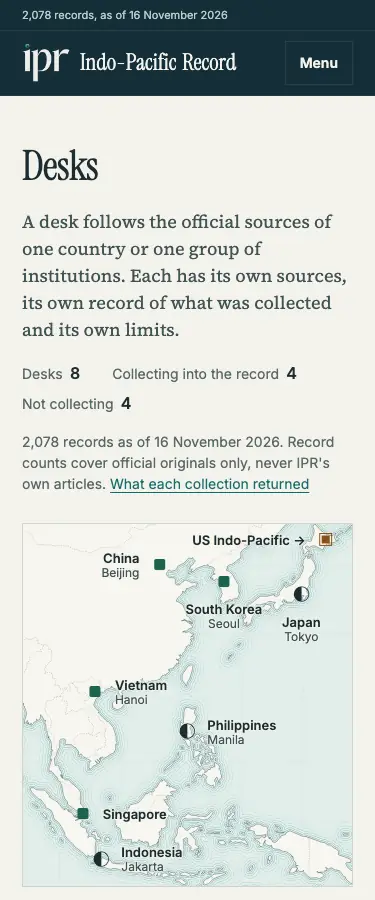
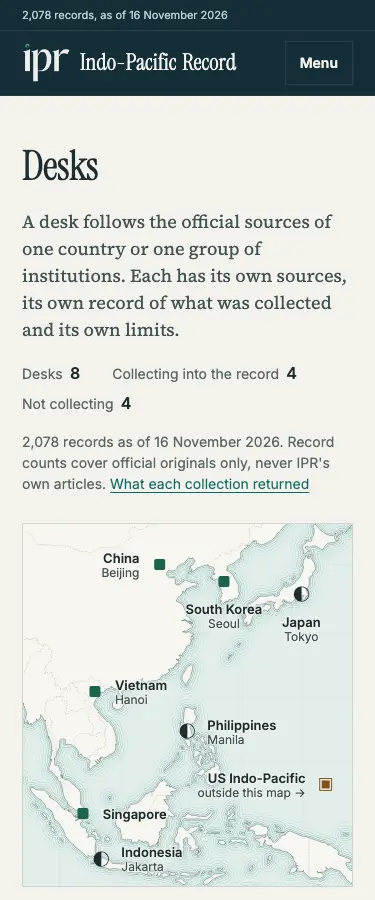
Act on the independent review: US pointer in open sea at every width, locator link on phones, consistent forced colours
The narrow-map rule had moved the US edge pointer onto Hokkaido and hidden its
text. It now stays at its built latitude (6N, open sea), keeps 'outside this
map' visible, and tests guard both. The locator's atlas link shows at every
width; forced colours keep both drawings. Browser test for atlas label
collisions at eight widths.

diff --git a/output/desks.html b/output/desks.html
@@ -68,7 +68,7 @@
 <li><a class="seat seat--right seat--n-right" href="#desk-philippines" style="left:49.96%;top:57.54%"><span class="seat-mark seat-mark--shadow" aria-hidden="true"></span><span class="seat-text"><b>Philippines</b> Manila<span class="visually-hidden">: Philippines Desk. Official links and machine explanations — not in corpus</span></span></a></li>
 <li><a class="seat seat--left seat--n-right" href="#desk-vietnam" style="left:21.85%;top:46.43%"><span class="seat-mark seat-mark--live" aria-hidden="true"></span><span class="seat-text"><b>Vietnam</b> Hanoi<span class="visually-hidden">: Vietnam Desk. Live — collecting</span></span></a></li>
 <li><a class="seat seat--right seat--n-right" href="#desk-indonesia" style="left:23.8%;top:92.72%"><span class="seat-mark seat-mark--shadow" aria-hidden="true"></span><span class="seat-text"><b>Indonesia</b> Jakarta<span class="visually-hidden">: Indonesia Desk. Shadow evaluation — not in corpus</span></span></a></li>
-<li><a class="seat seat--edge" href="#desk-us-indopacific" style="--y:78.07%"><span class="seat-text"><b>US Indo-Pacific</b> <span class="seat-far">United States, outside this map</span><span class="visually-hidden">: US Indo-Pacific Reference Desk. Access blocked — not collecting</span></span><span class="seat-mark seat-mark--access_blocked" aria-hidden="true"></span></a></li>
+<li><a class="seat seat--edge" href="#desk-us-indopacific" style="--y:72.17%"><span class="seat-text"><b>US Indo-Pacific</b> <span class="seat-place">United States, </span>outside this map<span class="visually-hidden">: US Indo-Pacific Reference Desk. Access blocked — not collecting</span></span><span class="seat-mark seat-mark--access_blocked" aria-hidden="true"></span></a></li>
 </ul>
 <div class="atlas-grat" aria-hidden="true"><span class="g-lon" style="left:11.11%">100°E</span><span class="g-lon" style="left:29.63%">110°E</span><span class="g-lon" style="left:48.15%">120°E</span><span class="g-lon" style="left:66.67%">130°E</span><span class="g-lon" style="left:85.19%">140°E</span><span class="g-lat" style="top:11.19%">40°N</span><span class="g-lat" style="top:30.27%">30°N</span><span class="g-lat" style="top:48.19%">20°N</span><span class="g-lat" style="top:65.4%">10°N</span><span class="g-lat" style="top:82.27%">0°</span><span class="g-lat" style="top:99.15%">10°S</span></div>
 </div>

diff --git a/site/preview/templates/_geo.html b/site/preview/templates/_geo.html
@@ -11,7 +11,7 @@
 <div class="atlas-map" style="aspect-ratio:{{ w.ratio }};--crop-size:{{ w.size }};--crop-at:{{ w.position }}">
 <ul class="atlas-seats" aria-label="Where each desk's institutions are based">
 {% for s in atlas.seats %}<li><a class="seat seat--{{ s.label }} seat--n-{{ s.label_narrow }}" href="#desk-{{ s.desk.slug }}" style="left:{{ s.x }};top:{{ s.y }}"><span class="seat-mark seat-mark--{{ s.desk.status }}" aria-hidden="true"></span><span class="seat-text"><b>{{ s.short }}</b>{% if s.seat != s.short %} {{ s.seat }}{% endif %}<span class="visually-hidden">: {{ s.desk.name }}. {{ s.desk.status_label }}</span></span></a></li>
-{% endfor %}{% for o in atlas.outside %}<li><a class="seat seat--edge" href="#desk-{{ o.desk.slug }}" style="--y:{{ o.y }}"><span class="seat-text"><b>{{ o.short }}</b> <span class="seat-far">{{ o.place }}, outside this map</span><span class="visually-hidden">: {{ o.desk.name }}. {{ o.desk.status_label }}</span></span><span class="seat-mark seat-mark--{{ o.desk.status }}" aria-hidden="true"></span></a></li>
+{% endfor %}{% for o in atlas.outside %}<li><a class="seat seat--edge" href="#desk-{{ o.desk.slug }}" style="--y:{{ o.y }}"><span class="seat-text"><b>{{ o.short }}</b> <span class="seat-place">{{ o.place }}, </span>outside this map<span class="visually-hidden">: {{ o.desk.name }}. {{ o.desk.status_label }}</span></span><span class="seat-mark seat-mark--{{ o.desk.status }}" aria-hidden="true"></span></a></li>
 {% endfor %}</ul>
 <div class="atlas-grat" aria-hidden="true">{% for g in atlas.graticule.lon %}<span class="g-lon" style="left:{{ g.at }}">{{ g.text }}</span>{% endfor %}{% for g in atlas.graticule.lat %}<span class="g-lat" style="top:{{ g.at }}">{{ g.text }}</span>{% endfor %}</div>
 </div>

diff --git a/output/desk-references.css b/output/desk-references.css
@@ -14,14 +14,13 @@
 .locator figcaption{margin:.45rem 0 0;font:400 .8125rem/1.4 var(--sans);color:var(--muted)}
 .locator figcaption a{font-weight:600}
 @media(max-width:699px){
-  .page-head--located{grid-template-columns:minmax(0,1fr) 5.5rem;grid-template-rows:auto;column-gap:1rem}
+  .page-head--located{grid-template-columns:minmax(0,1fr) 6.5rem;grid-template-rows:auto;column-gap:1rem}
   .page-head--located>.locator{grid-row:1;margin:0}
   .page-head--located>.lede,.page-head--located>.desk-count{grid-column:1/-1}
   .locator .seat-mark{font-size:.8125rem}
-  .locator-more{display:none}
   .locator figcaption{font-size:.75rem;margin-top:.3rem}
 }
-@media(forced-colors:active){.locator-map{forced-color-adjust:none}.locator .seat-mark{color:CanvasText;background:Canvas}}
+@media(forced-colors:active){.locator-map{forced-color-adjust:none}}
 .desk-count{font:400 var(--step-meta)/1.5 var(--sans);color:var(--muted);margin:.9rem 0 0}
 [data-surface=desk] .status-panel{display:grid;grid-template-columns:auto minmax(0,1fr);gap:0 .7rem;align-items:start;margin:0 0 2.4rem;padding:1.4rem 0 1.6rem;border:0;border-bottom:1px solid var(--rule);background:none}
 [data-surface=desk] .status-panel .status-glyph{font-size:1.05rem;line-height:1.75rem;padding:0}

diff --git a/site/preview/desk-references.css b/site/preview/desk-references.css
@@ -14,14 +14,13 @@
 .locator figcaption{margin:.45rem 0 0;font:400 .8125rem/1.4 var(--sans);color:var(--muted)}
 .locator figcaption a{font-weight:600}
 @media(max-width:699px){
-  .page-head--located{grid-template-columns:minmax(0,1fr) 5.5rem;grid-template-rows:auto;column-gap:1rem}
+  .page-head--located{grid-template-columns:minmax(0,1fr) 6.5rem;grid-template-rows:auto;column-gap:1rem}
   .page-head--located>.locator{grid-row:1;margin:0}
   .page-head--located>.lede,.page-head--located>.desk-count{grid-column:1/-1}
   .locator .seat-mark{font-size:.8125rem}
-  .locator-more{display:none}
   .locator figcaption{font-size:.75rem;margin-top:.3rem}
 }
-@media(forced-colors:active){.locator-map{forced-color-adjust:none}.locator .seat-mark{color:CanvasText;background:Canvas}}
+@media(forced-colors:active){.locator-map{forced-color-adjust:none}}
 .desk-count{font:400 var(--step-meta)/1.5 var(--sans);color:var(--muted);margin:.9rem 0 0}
 [data-surface=desk] .status-panel{display:grid;grid-template-columns:auto minmax(0,1fr);gap:0 .7rem;align-items:start;margin:0 0 2.4rem;padding:1.4rem 0 1.6rem;border:0;border-bottom:1px solid var(--rule);background:none}
 [data-surface=desk] .status-panel .status-glyph{font-size:1.05rem;line-height:1.75rem;padding:0}

diff --git a/output/desk-map.css b/output/desk-map.css
@@ -76,12 +76,10 @@
   .seat--n-left{flex-direction:row-reverse;text-align:right;transform:translate(calc(-100% + 20px),-50%)}
   .seat--n-right{flex-direction:row;text-align:left;transform:translate(-20px,-50%)}
   .seat--n-below{flex-direction:column;text-align:center;transform:translate(-50%,-20px)}
-  .seat--edge{top:4.5%}
-  .seat--edge .seat-text b::after{content:" →"}.seat--edge .seat-text::after{content:none}
-  .seat-far{position:absolute;width:1px;height:1px;overflow:hidden;clip-path:inset(50%);white-space:nowrap}
+  .seat-place{position:absolute;width:1px;height:1px;overflow:hidden;clip-path:inset(50%);white-space:nowrap}
   .atlas-grat{display:none}
 }
-@media(forced-colors:active){.atlas-map{background:Canvas;forced-color-adjust:none}.seat,.seat-text,.seat-text b{color:CanvasText;text-shadow:none}.seat-mark{color:CanvasText}}
+@media(forced-colors:active){.atlas-map{forced-color-adjust:none}}
 @media print{.atlas-map{border-color:#000}}
 .desks-section{margin:3rem 0 0}
 .desks-section>h2{margin:0 0 .8rem;padding:1rem 0 0;border-top:2px solid var(--rule-hard);font:400 clamp(1.625rem,1.35rem + 1vw,2.125rem)/1.1 var(--display)}

diff --git a/site/preview/desk-map.css b/site/preview/desk-map.css
@@ -76,12 +76,10 @@
   .seat--n-left{flex-direction:row-reverse;text-align:right;transform:translate(calc(-100% + 20px),-50%)}
   .seat--n-right{flex-direction:row;text-align:left;transform:translate(-20px,-50%)}
   .seat--n-below{flex-direction:column;text-align:center;transform:translate(-50%,-20px)}
-  .seat--edge{top:4.5%}
-  .seat--edge .seat-text b::after{content:" →"}.seat--edge .seat-text::after{content:none}
-  .seat-far{position:absolute;width:1px;height:1px;overflow:hidden;clip-path:inset(50%);white-space:nowrap}
+  .seat-place{position:absolute;width:1px;height:1px;overflow:hidden;clip-path:inset(50%);white-space:nowrap}
   .atlas-grat{display:none}
 }
-@media(forced-colors:active){.atlas-map{background:Canvas;forced-color-adjust:none}.seat,.seat-text,.seat-text b{color:CanvasText;text-shadow:none}.seat-mark{color:CanvasText}}
+@media(forced-colors:active){.atlas-map{forced-color-adjust:none}}
 @media print{.atlas-map{border-color:#000}}
 .desks-section{margin:3rem 0 0}
 .desks-section>h2{margin:0 0 .8rem;padding:1rem 0 0;border-top:2px solid var(--rule-hard);font:400 clamp(1.625rem,1.35rem + 1vw,2.125rem)/1.1 var(--display)}

diff --git a/tests/test_desks_phase4_browser.py b/tests/test_desks_phase4_browser.py
@@ -107,6 +107,33 @@ class DesksDirectoryBrowser(unittest.TestCase):
                 if entry.status == "shadow":
                     self.assertNotRegex(row["records"], r"\d")
 
+    def test_atlas_labels_stay_clear_of_each_other_and_inside_the_map(self):
+        # The regional atlas (2026-11-17): no name overlaps another name or
+        # another desk's mark, and none leaves the map, at any width.
+        probe = """() => {const m=document.querySelector('.atlas-map').getBoundingClientRect();
+          const r=[...document.querySelectorAll('.atlas .seat')].map(a=>{
+            const t=a.querySelector('.seat-text').getBoundingClientRect(),k=a.querySelector('.seat-mark').getBoundingClientRect();
+            return {n:a.querySelector('b').textContent,t:[t.left,t.top,t.right,t.bottom],
+                    k:[k.left+12,k.top+12,k.right-12,k.bottom-12],h:a.getBoundingClientRect().height}});
+          const hit=(a,b)=>a[0]<b[2]&&b[0]<a[2]&&a[1]<b[3]&&b[1]<a[3],out=[];
+          for(let i=0;i<r.length;i++)for(let j=0;j<r.length;j++){if(i===j)continue;
+            if(j>i&&hit(r[i].t,r[j].t))out.push(r[i].n+' / '+r[j].n);
+            if(hit(r[i].t,r[j].k))out.push(r[i].n+' over the mark of '+r[j].n)}
+          for(const x of r){if(x.t[0]<m.left-1||x.t[2]>m.right+1||x.t[1]<m.top-1||x.t[3]>m.bottom+1)out.push(x.n+' outside the map');
+            if(x.h<40)out.push(x.n+' target under 40px')}
+          return {count:r.length,problems:out}}"""
+        for width in WIDTHS + (414, 1024):
+            ctx = self.browser.new_context(viewport={"width": width, "height": 900})
+            page = ctx.new_page()
+            try:
+                page.goto((self.out / "desks.html").as_uri(), wait_until="load")
+                result = page.evaluate(probe)
+            finally:
+                ctx.close()
+            with self.subTest(width=width):
+                self.assertEqual(result["count"], len(self.registry))
+                self.assertEqual(result["problems"], [])
+
     def test_no_javascript_still_exposes_every_public_desk(self):
         rows, doc_width = self._rows(viewport={"width": 375, "height": 812},
                                      java_script_enabled=False)

diff --git a/tests/test_desk_map.py b/tests/test_desk_map.py
@@ -86,6 +86,20 @@ class RegionalAtlasTest(unittest.TestCase):
         # The edge pointer is not at the former Hawaii seat's latitude.
         self.assertNotAlmostEqual(atlas.OUTSIDE_EDGE_LAT, 21.4, delta=5)
 
+    def test_the_edge_pointer_sits_in_open_sea_at_every_width(self):
+        # Its mark stands at the view's east edge at OUTSIDE_EDGE_LAT; that
+        # point (and a margin west of it) must be sea, never a stand-in seat
+        # on someone's land. No stylesheet may move it off the built latitude.
+        east = atlas.VIEW["lon"][1]
+        for lon in (east, east - 1.5, east - 3.0):
+            self.assertFalse(_contains(self.source["land"],
+                                       *atlas.project(lon, atlas.OUTSIDE_EDGE_LAT)), lon)
+        css = (ROOT / "site" / "preview" / "desk-map.css").read_text(encoding="utf-8")
+        import re
+        for rule in re.findall(r"\.seat--edge\{([^}]*)\}", css):
+            tops = re.findall(r"(?:^|;)\s*top\s*:\s*([^;]+)", rule)
+            self.assertTrue(all(t.strip() == "var(--y)" for t in tops), rule)
+
     def test_every_seated_desk_has_a_locator_and_the_outside_desk_has_none(self):
         for slug, p in self.places.items():
             loc = atlas.locator_view(slug)
@@ -150,7 +164,7 @@ class AtlasOnThePages(unittest.TestCase):
             self.assertIn("%s. %s" % (d.name, d.status_label), head)
         self.assertIn("It is not an area of coverage", head)
         self.assertIn("no boundary claim", head)
-        self.assertIn("United States, outside this map", head)
+        self.assertIn("United States, </span>outside this map", head)
         self.assertNotIn("Hawaii", head)
         self.assertTrue((ROOT / "output" / "assets" / "geo" / "atlas.svg").is_file())
 

diff --git a/scripts/build_atlas.py b/scripts/build_atlas.py
@@ -60,7 +60,7 @@ VIEW = {"lon": (94.0, 148.0), "lat": (45.5, -10.5)}
 LOCATOR_SPAN = (26.0, 26.0)   # degrees of longitude, degrees of Miller height
 # Where an outside desk's edge pointer meets the east edge: open ocean, and
 # deliberately not the latitude of any former seat.
-OUTSIDE_EDGE_LAT = 2.5
+OUTSIDE_EDGE_LAT = 6.0
 
 # Waterline offsets from the coast, in units, nearest first, with the share of
 # the line colour mixed into the sea for each.

diff --git a/docs/evidence/regional-atlas-2026-11-17/README.md b/docs/evidence/regional-atlas-2026-11-17/README.md
@@ -22,7 +22,7 @@ Desktop is 1280px wide; mobile is 375px. Both are cut at 1,700px.
   - Each point marks where a desk's publishing institutions are based.
   - No country is filled.
   - Each mark is the desk's registry state glyph, with no colour-only meaning.
-  - The US desk is an edge pointer ("United States, outside this map"), not a Hawaii seat.
+  - The US desk is an edge pointer in open sea at 6°N ("United States, outside this map"; on a narrow map, "outside this map"), not a Hawaii seat.
 - **Directory unchanged.** The rows below the atlas, their counts, states and parallel-text titles are unchanged. Each row gains "Seat: <place>" with a link back to the atlas.
 - **Waterline rule.** Every page head's 2px rule now has two faint hairlines beneath it.
 

diff --git a/DECISION_LOG.md b/DECISION_LOG.md
@@ -27,7 +27,8 @@ visual phase through merge and deployment under repository governance.
 - The US Indo-Pacific Reference Desk is no longer drawn at Hawaii. Its
   registered sources are the USCC and the Treasury; nothing from U.S. Pacific
   Command, the Hawaii institution, is configured. The atlas shows an edge
-  pointer, "United States, outside this map", away from Hawaii's latitude.
+  pointer, "United States, outside this map", in open sea at 6°N, away from
+  Hawaii's latitude (a test keeps it off land at every width).
 - No country fills: a filled country reads as coverage. A point is a seat.
 - `desks/geography.json` loses the retired plate placements and country ids;
   `scripts/desk_map.py` loses the plate layout. `scripts/build_geo_assets.py`
